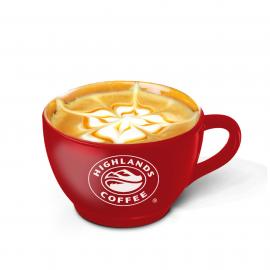
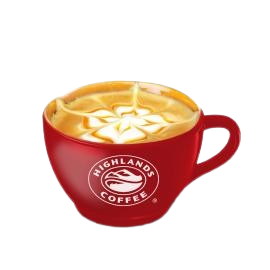
Xóa nền sản phẩm

diff --git a/src/Backend/Listen_SignUpWindow.java b/src/Backend/Listen_SignUpWindow.java
@@ -12,8 +12,6 @@ import javax.swing.JCheckBox;
 import javax.swing.JOptionPane;
 import javax.swing.JPasswordField;
 
-import org.mindrot.jbcrypt.BCrypt;
-
 public class Listen_SignUpWindow implements ActionListener {
 private SignUp_Window action;
 	public Listen_SignUpWindow(SignUp_Window action) {
@@ -65,7 +63,7 @@ private SignUp_Window action;
             else if (!password.equals(confirmPassword))
                 JOptionPane.showMessageDialog(action, "Nhập lại mật khẩu không khớp", "Lỗi", JOptionPane.ERROR_MESSAGE);
             else{
-                    String hashedPassword = BCrypt.hashpw(password, BCrypt.gensalt(12));  // Mã hóa mật khẩu bằng BCrypt
+                    String hashedPassword = PasswordHasherSHA256.hashPassword(password);
                     System.out.println("Tên: " + name + " SĐT: " + phone + " TK: " + username + " MK: " + password + " Mã hóa: " + hashedPassword);
                     userAccountDao.signUp(name, phone, username, hashedPassword);
                     userAccountDao.closeConnection();

diff --git a/src/Dao/UserAccountDao.java b/src/Dao/UserAccountDao.java
@@ -1,6 +1,5 @@
 package Dao;
-
-
+import Backend.PasswordHasherSHA256;
 import Fontend.Staff_Sign;
 import java.io.FileInputStream;
 import java.io.IOException;
@@ -11,7 +10,6 @@ import java.sql.Statement;
 import java.util.Properties;
 import javax.swing.JOptionPane;
 
-import org.mindrot.jbcrypt.BCrypt;
 
 public class UserAccountDao {
     private Connection conn;
@@ -55,7 +53,7 @@ public class UserAccountDao {
             String getID = ""; // Lấy ID đúng để biết là ai đăng nhập
             boolean check = false;  
             while (rs.next()) {
-                if (userName.equals(rs.getString(2).trim()) && BCrypt.checkpw(passWord, rs.getString(3).trim())){
+                if (userName.equals(rs.getString(2).trim()) && PasswordHasherSHA256.verifyPassword(passWord, rs.getString(3).trim())){
                     getID = rs.getString(1);
                     rs.close();
                     stmt.close();

diff --git a/src/Backend/PasswordHasherSHA256.java b/src/Backend/PasswordHasherSHA256.java
@@ -1,0 +1,23 @@
+package Backend;
+
+import java.nio.charset.StandardCharsets;
+import java.security.MessageDigest;
+import java.security.NoSuchAlgorithmException;
+import java.util.Base64;
+
+public class PasswordHasherSHA256{  // Dùng để mã hóa mật khẩu người dùng
+    public static String hashPassword(String password) {
+        try {
+            MessageDigest digest = MessageDigest.getInstance("SHA-256");
+            byte[] hash = digest.digest(password.getBytes(StandardCharsets.UTF_8));
+            return Base64.getEncoder().encodeToString(hash);
+        } catch (NoSuchAlgorithmException e) {
+            throw new RuntimeException("Lỗi mã hóa SHA-256", e);
+        }
+    }
+
+    public static boolean verifyPassword(String inputPassword, String storedHash) {
+        String hashedInput = hashPassword(inputPassword);
+        return hashedInput.equals(storedHash);
+    }
+}

diff --git a/src/TEST/HashMK.java b/src/TEST/HashMK.java
@@ -1,0 +1,11 @@
+package TEST;
+
+import Backend.PasswordHasherSHA256;
+
+
+public class HashMK {
+    public static void main(String[] args) {
+        String password = "Vuong123@";
+        System.out.println(PasswordHasherSHA256.hashPassword(password));
+}
+}

diff --git a/src/Backend/Listen_StaffWindow.java b/src/Backend/Listen_StaffWindow.java
@@ -12,7 +12,6 @@ import javax.swing.JOptionPane;
 import javax.swing.JPasswordField;
 import javax.swing.SwingUtilities;
 
-import org.mindrot.jbcrypt.BCrypt;
 
 public class Listen_StaffWindow implements ActionListener {
     private Staff_Sign action;
